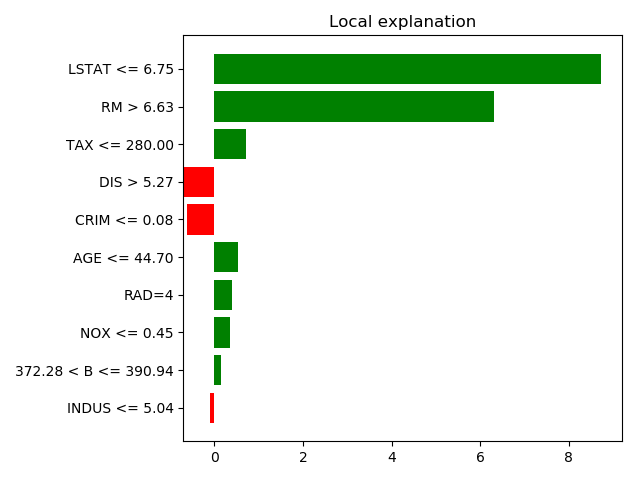
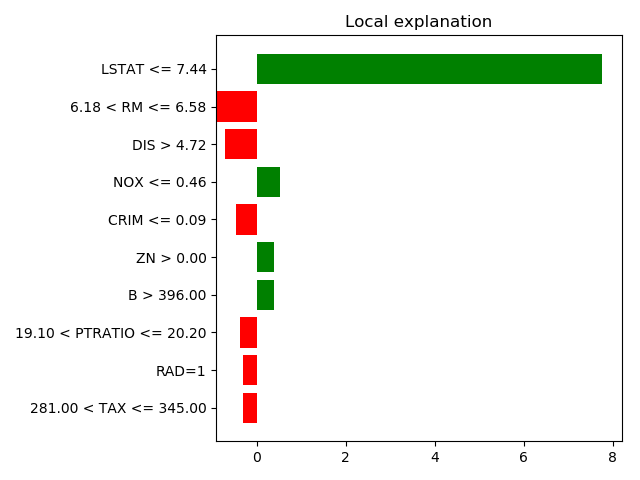
Update documentation

diff --git a/searchindex.js b/searchindex.js
@@ -1,1 +1,1 @@
-Search.setIndex({docnames:["AUTHORS","LICENSE","README","content/black_box_interpretation","content/cross_validation","content/index","content/interpreting_linear_models","content/interpreting_random_forests","content/metrics","content/partial_dep_plots","content/underfit_vs_overfit","includes/big_toc_css","includes/bigger_toc_css","index","tune_toc"],envversion:50,filenames:["AUTHORS.rst","LICENSE.rst","README.rst","content/black_box_interpretation.rst","content/cross_validation.rst","content/index.rst","content/interpreting_linear_models.rst","content/interpreting_random_forests.rst","content/metrics.rst","content/partial_dep_plots.rst","content/underfit_vs_overfit.rst","includes/big_toc_css.rst","includes/bigger_toc_css.rst","index.rst","tune_toc.rst"],objects:{},objnames:{},objtypes:{},terms:{"00000000e":[],"03800000e":[],"03900000e":[],"05700000e":[],"06000000e":[],"08300000e":[],"08700000e":[],"12500000e":[],"18900000e":[],"2018_pydata_ldn":[],"21800000e":[],"22800000e":[],"24000000e":[],"30000000e":[],"32900000e":[],"40100000e":[],"41800000e":[],"43000000e":[],"45400000e":[],"60100000e":[],"61300000e":[],"65000000e":[],"65400000e":[],"66000000e":[],"75000000e":[],"75800000e":[],"76000000e":[],"77700000e":[],"79200000e":[],"79900000e":[],"80800000e":[],"82000000e":[],"86000000e":[],"87100000e":[],"90200000e":[],"93300000e":[],"96900000e":[],"\u00e7a\u011flayan":[],"andr\u00e9":[],"boolean":[],"case":[],"class":[4,8],"default":8,"est\u00e8v":[],"export":[],"function":[8,13],"ga\u00ebl":0,"gilli\u00dfen":[],"import":[3,4,6,8,9,10,13],"j\u0119drzejewski":[],"jo\u00e3o":[],"lo\u00efc":[],"long":[],"m\u00fcller":[],"new":4,"return":10,"t\u00f6r\u00f6k":[],"true":4,"try":[4,8],"var":6,"while":[9,10],AGE:[3,6,7],But:8,DIS:3,For:[3,4,10],Its:8,Not:[6,7,8],One:4,Such:8,The:[7,9,10,13],There:4,These:8,Wes:[],With:[],__call__:[],__init__:[],_ax:[],_backend:[],_dispatch:[],_distn_infrastructur:[],_fit_and_scor:[],_multimetric_scor:[],_parallel_backend:[],_score:[],_valid:[],abl:[],abov:[],absolut:13,accept:8,accuraci:13,achiev:[2,8,13],across:[4,8,10],activ:[],actual:[4,8],adapt:10,add_subplot:[],adrian:[],adrien:[],age:6,agreement:[],akihiro:[],all:[1,2,5,8,13],along:8,alpha:10,alphabet:[],also:[3,6],amount:13,anoth:8,appli:10,applic:8,apply_async:[],approach:4,appropri:[],aquir:10,arang:[4,6,7,10],arbitrarili:4,area:13,arg:[],aris:[2,13],around:8,arrai:[],artifici:4,arunpersaud:[],as_list:3,as_pyplot_figur:3,aspect:6,assign:8,associ:[],assum:[2,13],attach:[],attribut:1,attributeerror:[],auc:8,author:1,avail:[8,10],averag:[9,13],average_precis:8,awai:4,axes3d:9,axes:[],axi:10,axs:9,azim:9,back:[],balanc:8,barh:[6,7],bartosz:[],base:[2,13],baselin:[8,13],bash:[],bashrc:[],basic:[2,13],batch:[],becaus:[4,8],been:[],behavior:8,being:8,belong:[],below:[],besson:[],best:10,between:[6,7,8,9],bia:13,bin:[],binari:[],binder:[3,4,6,7,8,9,10],binom:4,binom_gen:[],binomi:4,bit:[],black:[5,13],black_box_interpret:3,blue:10,boston:[3,9,13],bottom:[],box:[5,13],breast:[],brett:[],browser:[3,4,6,7,8,9,10],builder:[],built:[],buitinck:[],bupu:9,burn:[],buyl:[],cach:[],call:8,callback:[],can:[2,4,8,9,13],cancer:[],cannot:[6,8],captur:8,cardin:7,categor:[3,7],categorical_featur:3,caveat:13,center:4,cha:[],challeng:13,chanc:[8,13],chang:[2,8,13],chapter:[6,10],character:[],charl:8,chauv:[],check_scor:[],choos:[],chosen:[],christoph:[],cimrman:[],class_nam:3,classif:[4,13],classifi:[4,8],classificatio:[],cleric:[6,7],clf:9,click:[3,4,6,7,8,9,10],cmap:9,cmu:[6,7],code:[1,3,4,5,6,7,8,9,10,13],coef:6,coef_:6,coeffici:13,col:3,color:10,colorbar:9,column:[6,7],com:3,combel:[],come:[],common:1,commun:[],compar:[6,8,10],comparison:8,complet:[],complex:[5,13],comput:[6,8,9],con:8,conclud:8,conda:[],condit:[6,7],condition:7,configur:[],confound:13,confus:8,consid:[8,10],consist:9,constant:[],constitut:4,construct:[6,7],contain:[],content_jupyt:[5,13],content_python:[5,13],continuum:[],contributor:1,control:[7,8],conveni:[],convien:8,coordin:9,copi:[],corei:[],correct:[4,8],correctli:[],correl:13,correspond:[],cost:8,count:8,cournapeau:[],cours:[],cover:[],coverag:[],cps_85_wage:[6,7],creat:[3,4],creativ:1,creativecommon:1,crim:3,cross:[5,8,10,13],cross_val_scor:[4,8],cross_valid:4,crucial:10,cstride:9,curv:13,danger:[],daniel:[],data:[4,5,9,13],datascienceinc:3,dataset:[3,4,6,7,8,9,10],david:[],deactiv:[],decis:8,def:10,defin:8,degre:10,demo:[],dep:9,depend:[3,5,13],der:[],detect:8,dev:[],develop:8,diabet:[],did:[],didrik:[],differ:[3,4,6,8,10],difficult:7,digit:13,digit_label:8,dimens:[],directori:[],discriminant_analysi:4,discuss:8,dispatch_one_batch:[],displai:[],dist:[],distrib:4,distribut:4,document:[],doe:4,doing:4,dollar:[6,7,8],download:[3,4,5,6,7,8,9,10,13],drive:[2,13],dummi:[4,8],dummyclassifi:[4,8],dure:8,each:[6,8],easi:[4,6,8,10],easier:8,easili:[6,8],ecosystem:[],edgecolor:9,edit:[],editor:[],edu:[6,7],educ:[6,7],edwin:[],effect:[9,13],effort:[],egen:[],elev:9,elsewher:[6,7],emmanuel:[],empti:[],enabl:8,encourag:[],end:[],enough:10,ensembl:[3,7,8,9],ensur:[],entropi:[],enumer:3,env:[],environ:[],err:10,error:[4,13],espaz:[],estim:4,evalu:9,exampl:[3,4,5,6,7,8,9,10,13],exclus:8,exist:[6,7],exp:3,experi:[6,7],explain:[3,10,13],explain_inst:3,expos:8,extens:[],extern:[],extra:[],fabian:[],factor:[6,7,13],fall:4,fals:8,farwel:[],faster:[],featur:[3,8,9,13],feature_importances_:7,feature_nam:[3,8,9],feel:[],felip:[],femal:[6,7],few:[3,10],fig:9,figsiz:[4,8,10],figur:[4,8,9,10],file:[1,6,7],find:[],first:[3,4],fit:[3,6,7,9,13],fit_tim:[],fit_transform:8,fix:8,focu:[2,13],fold:[4,10],follow:[3,4,10],font:[],forest:[5,8,13],format:4,found:[],fraction:8,free:[],frequent:8,from:[3,4,6,7,8,9,10],full:[3,4,6,7,8,9,10],func:[],gael:[],galleri:[3,4,5,6,7,8,9,10,13],gather:[],gaug:[],gbrt:9,gener:[3,4,5,6,7,8,9,13],generating_func:10,georg:[],gerigk:[],gert:[],get:4,get_tight_layout_figur:[],giesek:[],git:[],github:3,give:[4,6,7,8],given:8,gnu:[],goal:8,gommer:[],good:[2,4,8,13],gotcha:[5,13],gouillart:[],gradientboostingregressor:9,great:6,grid:9,grid_resolut:9,group:[],gustavsen:[],h_pad:[],haenel:[],haessig:[],half:[2,13],hard:6,harder:8,hartmann:[],has:[8,10],have:[4,7,8],header:[6,7],heavier:3,helen:[],helmu:[],henc:8,here:[3,4,6,7,8,9,10],high:13,higher:7,highli:6,highlight:6,hispan:[6,7],home:[],hoteit:[],hour:[6,7],hous:[10,13],how:[2,8],howev:8,html:[],http:[1,3,6,7],huber:9,hyperparamet:10,ideal:[8,10],ill:8,illustr:[],imag:3,imbal:[4,8],imbalanc:8,immedi:[2,13],immediateresult:[],implement:[],implic:[],importantli:4,importerror:[],improv:[2,13],inclus:[],increas:[6,7,10],inde:8,independ:[8,13],index:[],indexerror:[],indu:3,infer:[],inform:7,ingold:[],init:9,inner:[],inspect:[3,9],instal:3,instanc:[4,8],instead:[],instruct:[],intend:[],interact:9,interest:8,interfer:[],intern:1,interpret:[2,5,13],interpreting_jupyt:[],interpreting_linear_model:6,interpreting_python:[],interpreting_random_forest:7,interv:4,invalid:[],investig:[],ipynb:[3,4,6,7,8,9,10],iri:4,is_multimetr:[],isf:4,isn:8,item:[],iter:[],its:13,job:[2,13],joblib:[],john:[],jonathan:[],jone:[],jorgeprietoarranz:[],judg:[5,13],julia:[],jupyt:[3,4,5,6,7,8,9,10,13],just:[],keep:[4,8],kikocorreoso:[],kind:[],knight:[],knowledg:[2,13],known:6,kwarg:[],kwd:[],label:[8,10],labelbinar:8,languag:[],lar:[],larg:[8,10],larger:[7,8,10],lassif:4,lasso:6,lassocv:6,last:[],latest:[],latex:[],latexmk:[],layout:[],learn:[4,6,8],learning_curv:10,learning_r:9,lectur:[6,10],left:[],legend:10,len:4,let:[4,8],level:[4,13],lfp6:[],lib:[6,7],licens:[],lies:4,like:[],lilian:[],lime:[5,13],lime_tabular:3,limetabularexplain:3,limit:10,line:3,linear:[5,8,13],linear_model:[6,10],lineardiscriminantanalysi:4,linearregress:10,link:6,linspac:[4,10],linux:[],list:[1,9],live:[6,7],load:[3,9],load_boston:[3,8,9],load_breast_canc:[],load_diabet:[],load_digit:8,load_iri:[],loc:10,local:[],log10:[6,7],log:[6,7],logspac:10,longer:8,look:4,loss:9,low:10,lower:13,lstat:3,ludwig:[],machin:[4,6],mad:[],made:10,mai:8,main:[],mainten:[],make:8,make_blob:4,make_pipelin:10,male:[6,7],manag:[6,7],mani:[4,8],manufactur:[6,7],map:9,margin:[6,9],marker:10,markup:[],marr:[6,7],marri:[6,7],match:[],materi:1,matplotlib:[3,4,6,7,8,9,10],matric:6,matthew:[],max:[],max_depth:9,max_nrow:[],maxim:8,maximilien:[],mayb:8,mclaughlin:[],md5:[],md5sum:[],mean:[10,13],meaning:8,measur:8,measuring_prediction_jupyt:[],measuring_prediction_python:[],mechan:10,member:[6,7],meshgrid:9,mesur:4,method:[],metric:[5,13],mhemantha:[],michael:[],might:[],mike:[],mind:[4,8],miniconda3:[],miniconda:[],minut:[3,4,6,7,8,9,10],miss:8,mode:3,model:[4,5,9],model_select:[3,4,8,9,10],modern:3,modifi:[],modul:[],mohammad:[],more:[3,4,5,8,9,13],most:[4,8],most_frequ:8,mpl_toolkit:9,mplot3d:9,mse:8,multi:8,multiclass:13,multilabel:13,multipl:[6,7,8],must:[],mutual:7,n_estim:9,n_job:[],n_sampl:10,naiv:8,name:[6,7,8],nameerror:[],natur:8,need:[3,5,6,8,13],neg:8,neg_mean_absolute_error:8,neg_mean_squared_error:8,negat:8,negm:[],nell:[],nelson:[],never:8,newaxi:10,nice:8,nicoguaro:[],nicola:[],noisi:4,non:13,none:[6,7],normal:[6,10],note:[6,8],notebook:[3,4,6,7,8,9,10],notion:[3,8],now:[3,8],nox:3,npermut:4,nrows_list:[],num_featur:3,number:[6,7,10],numpi:[3,4,6,7,9,10],object:[],observ:[4,8],obtain:[],occup:[6,7],off:[],often:[2,13],olav:[],olivi:[],oller:[],one:[8,13],onli:[2,8,9,13],onlin:[],oper:[2,13],oppos:8,order:[],org:1,origin:[],other:[6,7,8,9],our:8,out:[3,4,8,9,10],output:[],over:[],overfit:[5,13],own:[],ozan:[],p_valu:4,packag:[],pad:[],pairplot:6,panda:[6,7],papapanagiot:[],paper:[],parallel:[],param_nam:10,param_rang:10,paramet:[8,10],partial:[5,13],partial_dep:9,partial_dep_plot:9,partial_depend:13,pass:[],path:[6,7],patniharshit:[],pauli:[],pdf:[],pdp:[],pedregosa:[],peform:4,peopl:[],pepiot:[],per:[6,7],pereira:[],perfect:8,perform:8,permut:4,permutation_test_scor:4,permuted_scor:4,person:[6,7],pettiaux:[],philip:[],philipp:[],pierr:[],pillow:[],pint:[],pip:3,pipelin:10,plenti:6,plot:[4,5,6,8,10,13],plot_partial_depend:9,plot_surfac:9,plt:[3,4,6,7,8,9,10],pmf:4,pocoo:[],point:4,polynom:13,polynomi:13,polynomialfeatur:10,polynomialfeatures__degre:10,posit:8,pre_dispatch:[],precis:13,predict:[2,3,4,8,9,10],prefer:[],prepar:9,preprocess:[8,10],present:[6,7],pretti:9,price:[8,10,13],print:[3,4,8,10],pro:8,probabl:[],problem:[8,13],proce:[],produc:[],profession:[6,7],provid:[4,8],proxi:7,ptratio:[],purpos:[],put:8,pyplot:[3,4,6,7,8,9,10],pytest:[],python2:[],python3:[],python:[3,4,5,6,7,8,9,10,13],question:[2,13],quick:8,race:[6,7],rad:3,rai:[],rais:[],ralf:[],random:[4,5,8,10,13],random_choic:8,random_st:[8,9],randomforestclassifi:8,randomforestregressor:[3,7,8],randomli:10,rang:4,rare:8,rate:4,rather:[2,13],ratio:8,read_csv:[6,7],real:4,realli:8,recal:13,recent:[],recommend:[],rect:[],red:10,reduc:[4,8],refer:[],reg:[],regard:8,regim:6,regress:13,regressor:[3,8],regular:[10,13],rel:8,relat:8,reli:3,remain:[],remov:6,renam:[],replac:[],repo:[],report:8,repositori:[],requir:[2,13],reshap:9,rest:[],result:4,reverland:[],review:[],rich:10,ridg:6,ridgecv:6,riehl:[],right:[],river:8,robert:[],robust:4,roc:13,roc_auc:8,rougier:[],rst:1,rstride:9,run:[3,4,6,7,8,9,10],rutzmos:[],safe:[],sai:[],sale:[6,7],same:[],sampl:[4,10],santo:[],scale:8,scatter:[6,8,10],scientif:[],scikit:[2,8,10,13],scipi:[4,6,10],score:[4,8,10],score_tim:[],scorer:[],screen:[],script:[3,4,6,7,8,9,10],seaborn:6,second:[3,4,6,7,8,9,10],sector:[6,7],see:[1,3,6,8],seed:[4,10],select:6,self:[],sens:8,sep:[6,7],separ:[3,8],sequenc:[],sergio:[],servic:[6,7],set:[4,10,13],set_titl:[],set_xlabel:9,set_xlim:[],set_ylabel:9,set_ylim:[],set_zlabel:9,seven:8,sex:[6,7],shell:3,sherwood:[],shoeboxam:[],short_nam:[6,7],shortcom:13,should:[4,6,8,10],shouldn:8,show:10,shuffl:[4,8],signific:[],simon:[],simpl:[4,8],simplic:[],simplifi:8,singl:[6,8],size:[3,4,6,7,8,9,10],skater:3,skipfoot:[6,7],skiprow:[6,7],sklearn:[3,4,6,7,8,9,10],slightli:8,small:[4,8,10],softwar:[],solarjo:[],some:[5,10,13],sourc:[3,4,5,6,7,8,9,10,13],south:[6,7],specif:8,sphinx:[3,4,5,6,7,8,9,10,13],split:[4,6,7,10],spread:4,squar:13,src:[],ssmiller:[],standard:6,stat:[4,6,7],state:[],statist:[2,6,13],statsmodel:6,stefan:[],step:10,still:4,strategi:[4,8],stratifi:4,string:[],strpeter:[],stupid:8,subplots_adjust:[],subsequ:[],success:8,sucess:[5,13],sum:[],summari:13,summaris:8,support:[],surf:9,surpris:[4,8],svc:[],svm:[],sympi:[],syntax:[],syntaxerror:[],system:[2,13],szmek:[],tabular:13,take:8,talk:[],tarek:[],target:[3,4,6,7,8,9],target_featur:9,task:[],tax:3,taylor:[],teach:[],tell:10,term:[4,8],test:[2,4,13],test_scor:[],test_siz:[9,10],testenv:[],tex:[],texliv:[],text:3,than:[2,4,13],thei:[6,7,9],theofilo:[],thi:[2,3,4,6,7,8,9,10,13],thing:[4,8],though:8,thoui:[],three:[],threshold:8,thu:[],tiago:[],tight_layout:[3,6,7,8,9,10],time:[3,4,6,7,8,9,10],titl:10,toi:13,too:[6,10],tool:6,top:[],topic:[],total:[3,4,6,7,8,9,10],traceback:[],tradeoff:8,train:[9,13],train_scor:10,train_siz:10,train_test_split:[3,9,10],transform:[6,7],tune:[],tupl:[],turn:8,turner:[],tutori:[2,13],tweak:[],two:[4,8],txt:[6,7],type:3,typeerror:[],typic:[6,7],ubiquit:4,uchida:[],uncertainti:13,under:[1,13],underfit:[5,13],underfit_vs_overfit:10,understand:10,uniform:[],union:[6,7],uniqu:3,unit:8,univari:6,unless:8,unmarri:[6,7],unseen:10,unthreshold:8,upadhyai:[],upon:4,urllib:[6,7],urlretriev:[6,7],use:[3,4,8],used:[4,8],useful:8,user:3,uses:3,using:8,usr:[],usual:[],util:[4,8],utkarsh:[],vahtra:[],val:4,valentin:[],valid:[5,8,13],validation_curv:10,validation_scor:10,valu:[4,8],valueerror:[],van:[],vari:[8,9,13],variabl:[6,7],varianc:[4,6,13],variant:3,variou:8,varoquau:[],varoquaux:0,verdier:[],veri:[8,10],version:8,versu:13,via:[3,4,6,7,8,9,10],view:9,view_init:9,vinc:[],virgilefritsch:[],virtanen:[],visual:[6,7],w_pad:[],wage:13,wai:8,wakeham:[],walt:[],want:8,welcom:[],well:[6,7,8],wget:[],what:[2,4,8,13],when:[6,8,10],where:8,whether:10,which:[4,8],white:[6,7],wide:4,willing:8,wisconsin:[],wit:8,without:8,word:[],work:[6,7],would:[],written:[],wrong:4,wspace:[],x86_64:[],x_plot:10,x_test:[3,9,10],x_train:[3,9,10],xlabel:[8,10],xlim:10,xtick:[],xxx:[],y_test:[3,9,10],y_train:[3,9,10],y_type:[],yasutomo57jp:[],year:[6,7],yet:4,yield:[],ylabel:[8,10],ylim:10,ymax:10,ymin:10,yml:[],yosh:[],you:[],your:[3,4,6,7,8,9,10],ytick:[6,7],zbigniew:[],zero:8,zip:[5,8,13]},titles:["Authors","License","Understanding and diagnosing your machine-learning models","1. Black-box interpretation of models: LIME","2. Cross-validation: some gotchas","Notebooks","2. Interpreting linear models","3. Interpreting random forests","1. Metrics to judge the sucess of a model","4. Partial dependency plots","3. Underfit vs overfit: do I need more data, or more complex models?","&lt;no title&gt;","&lt;no title&gt;","Understanding and diagnosing your machine-learning models","&lt;no title&gt;"],titleterms:{"function":9,"import":7,The:[4,6,8],absolut:8,accuraci:[4,8],addit:[],all:9,amount:10,area:8,author:0,averag:8,baselin:4,bia:10,black:3,boston:8,box:3,breast:[],build:[],cancer:[],caveat:7,challeng:6,chanc:4,chapter:[],character:[],classif:8,classifi:13,classificatio:[],coeffici:6,complex:10,condit:[],confound:4,content:8,contribut:[],correl:6,cross:4,curv:[8,10],data:[3,6,7,8,10],debian:[],depend:9,diagnos:[2,13],digit:8,distribut:[],editor:[],effect:[4,6],error:[8,10],exampl:[],explain:8,factor:3,featur:[6,7],fit:10,forest:7,gener:10,gotcha:4,guid:[],high:10,hous:[3,8],how:13,independ:4,instal:[],instruct:[],interpret:[3,6,7],its:8,judg:8,just:[],learn:[2,10,13],lectur:[],level:9,licens:1,lime:3,linear:6,lower:9,machin:[2,13],mad:[],margin:[],mean:[7,8],measur:[4,13],metric:8,model:[2,3,6,8,10,13],more:10,mse:[],multiclass:8,multilabel:8,need:10,non:4,note:[],notebook:[5,13],one:9,overfit:10,packag:[],partial:9,partial_depend:9,permut:[],pip:[],plot:9,polynom:10,polynomi:10,precis:8,predict:13,price:3,problem:10,python:[],random:7,recal:8,regress:[3,8,10],regular:6,relat:[],requir:[],reus:[],roc:8,scipi:[],set:8,shortcom:8,some:4,squar:8,sucess:8,summari:[8,10],syntaxerror:[],tabular:3,test:10,toi:10,train:10,tune:[],ubuntu:[],uncertainti:4,under:8,underfit:10,understand:[2,13],valid:[4,10],vari:10,varianc:[8,10],versu:[8,10],wage:[6,7],well:13,why:13,wisconsin:[],your:[2,13]}})
+Search.setIndex({docnames:["AUTHORS","LICENSE","README","content/black_box_interpretation","content/cross_validation","content/index","content/interpreting_linear_models","content/interpreting_random_forests","content/metrics","content/partial_dep_plots","content/underfit_vs_overfit","includes/big_toc_css","includes/bigger_toc_css","index","tune_toc"],envversion:50,filenames:["AUTHORS.rst","LICENSE.rst","README.rst","content/black_box_interpretation.rst","content/cross_validation.rst","content/index.rst","content/interpreting_linear_models.rst","content/interpreting_random_forests.rst","content/metrics.rst","content/partial_dep_plots.rst","content/underfit_vs_overfit.rst","includes/big_toc_css.rst","includes/bigger_toc_css.rst","index.rst","tune_toc.rst"],objects:{},objnames:{},objtypes:{},terms:{"00000000e":[],"03800000e":[],"03900000e":[],"05700000e":[],"06000000e":[],"08300000e":[],"08700000e":[],"12500000e":[],"18900000e":[],"2018_pydata_ldn":[],"21800000e":[],"22800000e":[],"24000000e":[],"30000000e":[],"32900000e":[],"40100000e":[],"41800000e":[],"43000000e":[],"45400000e":[],"60100000e":[],"61300000e":[],"65000000e":[],"65400000e":[],"66000000e":[],"75000000e":[],"75800000e":[],"76000000e":[],"77700000e":[],"79200000e":[],"79900000e":[],"80800000e":[],"82000000e":[],"86000000e":[],"87100000e":[],"90200000e":[],"93300000e":[],"96900000e":[],"\u00e7a\u011flayan":[],"andr\u00e9":[],"boolean":[],"case":[],"class":[4,8],"default":8,"est\u00e8v":[],"export":[],"function":[8,13],"ga\u00ebl":0,"gilli\u00dfen":[],"import":[3,4,6,8,9,10,13],"j\u0119drzejewski":[],"jo\u00e3o":[],"lo\u00efc":[],"long":[],"m\u00fcller":[],"new":4,"return":10,"t\u00f6r\u00f6k":[],"true":4,"try":[4,8],"var":6,"while":[9,10],AGE:[6,7],But:8,DIS:3,For:[3,4,10],Its:8,Not:[6,7,8],One:4,Such:8,The:[7,9,10,13],There:4,These:8,Wes:[],With:[],__call__:[],__init__:[],_ax:[],_backend:[],_dispatch:[],_distn_infrastructur:[],_fit_and_scor:[],_multimetric_scor:[],_parallel_backend:[],_score:[],_valid:[],abl:[],abov:[],absolut:13,accept:8,accuraci:13,achiev:[2,8,13],across:[4,8,10],activ:[],actual:[4,8],adapt:10,add_subplot:[],adrian:[],adrien:[],age:6,agreement:[],akihiro:[],all:[1,2,5,8,13],along:8,alpha:10,alphabet:[],also:[3,6],amount:13,anoth:8,appli:10,applic:8,apply_async:[],approach:4,appropri:[],aquir:10,arang:[4,6,7,10],arbitrari:6,arbitrarili:4,area:13,arg:[],aris:[2,13],around:8,arrai:[],artifici:4,arunpersaud:[],as_list:3,as_pyplot_figur:3,aspect:6,assign:8,associ:[],assum:[2,13],attach:[],attribut:1,attributeerror:[],auc:8,author:1,avail:[8,10],averag:[9,13],average_precis:8,awai:4,axes3d:9,axes:[],axi:10,axs:9,azim:9,back:[],balanc:8,barh:[6,7],bartosz:[],base:[2,13],baselin:[8,13],bash:[],bashrc:[],basic:[2,13],batch:[],becaus:[4,8],been:[],behavior:8,being:8,belong:[],below:[],besson:[],best:10,between:[6,7,8,9],bia:13,bin:[],binari:[],binder:[3,4,6,7,8,9,10],binom:4,binom_gen:[],binomi:4,bit:[],black:[5,13],black_box_interpret:3,blue:10,boston:[3,9,13],bottom:[],box:[5,13],breast:[],brett:[],browser:[3,4,6,7,8,9,10],builder:[],built:[],buitinck:[],bupu:9,burn:[],buyl:[],cach:[],call:8,callback:[],can:[2,4,6,8,9,13],cancer:[],cannot:[6,8],captur:8,cardin:7,categor:[3,7],categorical_featur:3,caveat:13,center:4,cha:[],challeng:13,chanc:[8,13],chang:[2,8,13],chapter:[6,10],character:[],charl:8,chauv:[],check_scor:[],choos:[],chosen:[],christoph:[],cimrman:[],class_nam:3,classif:[4,13],classifi:[4,8],classificatio:[],cleric:[6,7],clf:9,click:[3,4,6,7,8,9,10],cmap:9,cmu:[6,7],code:[1,3,4,5,6,7,8,9,10,13],coef:6,coef_:6,coeffici:13,col:3,color:10,colorbar:9,column:[6,7],com:3,combel:[],come:[],common:1,commun:[],compar:[6,8,10],comparison:8,complet:[],complex:[5,13],comput:[6,8,9],con:8,conclud:8,conda:[],condit:[6,7],condition:7,configur:[],confound:13,confus:8,consid:[8,10],consist:9,constant:[],constitut:4,construct:[6,7],contain:[],content_jupyt:[5,13],content_python:[5,13],continuum:[],contributor:1,control:[7,8],conveni:[],convien:8,coordin:9,copi:[],corei:[],correct:[4,8],correctli:[],correl:13,correspond:[],cost:8,count:8,cournapeau:[],cours:[],cover:[],coverag:[],cps_85_wage:[6,7],creat:[3,4],creativ:1,creativecommon:1,crim:3,cross:[5,8,10,13],cross_val_scor:[4,8],cross_valid:4,crucial:10,cstride:9,curv:13,danger:[],daniel:[],data:[4,5,9,13],datascienceinc:3,dataset:[3,4,6,7,8,9,10],david:[],deactiv:[],decis:8,def:10,defin:8,degre:10,demo:[],dep:9,depend:[3,5,6,13],der:[],detect:8,dev:[],develop:8,diabet:[],did:[],didrik:[],differ:[3,4,6,8,10],difficult:7,digit:13,digit_label:8,dimens:[],directori:[],discriminant_analysi:4,discuss:8,dispatch_one_batch:[],displai:[],dist:[],distrib:4,distribut:4,document:[],doe:4,doing:4,dollar:[6,7,8],download:[3,4,5,6,7,8,9,10,13],drive:[2,13],dummi:[4,8],dummyclassifi:[4,8],dure:8,each:[6,8],easi:[4,6,8,10],easier:8,easili:[6,8],ecosystem:[],edgecolor:9,edit:[],editor:[],edu:[6,7],educ:[6,7],edwin:[],effect:[9,13],effort:[],egen:[],elev:9,elsewher:[6,7],emmanuel:[],empti:[],enabl:8,encourag:[],end:[],enough:10,ensembl:[3,7,8,9],ensur:[],entropi:[],enumer:3,env:[],environ:[],err:10,error:[4,13],espaz:[],estim:4,evalu:9,exampl:[3,4,5,6,7,8,9,10,13],exclus:8,exist:[6,7],exp:3,experi:[6,7],explain:[3,10,13],explain_inst:3,expos:8,extens:[],extern:[],extra:[],fabian:[],factor:[6,7,13],fall:4,fals:8,farwel:[],faster:[],featur:[3,8,9,13],feature_importances_:7,feature_nam:[3,8,9],feel:[],felip:[],femal:[6,7],few:[3,10],fig:9,figsiz:[4,8,10],figur:[4,8,9,10],file:[1,6,7],find:[],first:[3,4],fit:[3,6,7,9,13],fit_tim:[],fit_transform:8,fix:8,focu:[2,13],fold:[4,10],follow:[3,4,10],font:[],forest:[5,8,13],format:4,found:[],fraction:8,free:[],frequent:8,from:[3,4,6,7,8,9,10],full:[3,4,6,7,8,9,10],func:[],gael:[],galleri:[3,4,5,6,7,8,9,10,13],gather:[],gaug:[],gbrt:9,gener:[3,4,5,6,7,8,9,13],generating_func:10,georg:[],gerigk:[],gert:[],get:4,get_tight_layout_figur:[],giesek:[],git:[],github:3,give:[4,6,7,8],given:8,gnu:[],goal:8,gommer:[],good:[2,4,8,13],gotcha:[5,13],gouillart:[],gradientboostingregressor:9,great:6,grid:9,grid_resolut:9,group:[],gustavsen:[],h_pad:[],haenel:[],haessig:[],half:[2,13],hard:6,harder:8,hartmann:[],has:[8,10],have:[4,7,8],header:[6,7],heavier:3,helen:[],helmu:[],henc:8,here:[3,4,6,7,8,9,10],high:13,higher:7,highli:6,highlight:6,hispan:[6,7],home:[],hoteit:[],hour:[6,7],hous:[10,13],how:[2,8],howev:8,html:[],http:[1,3,6,7],huber:9,hyperparamet:10,ideal:[8,10],ill:8,illustr:[],imag:3,imbal:[4,8],imbalanc:8,immedi:[2,13],immediateresult:[],implement:[],implic:[],importantli:4,importerror:[],improv:[2,13],inclus:[],increas:[6,7,10],inde:8,independ:[8,13],index:[],indexerror:[],indu:[],infer:[],inform:7,ingold:[],init:9,inner:[],inspect:[3,9],instal:3,instanc:[4,8],instead:[],instruct:[],intend:[],interact:9,interest:8,interfer:[],intern:1,interpret:[2,5,13],interpreting_jupyt:[],interpreting_linear_model:6,interpreting_python:[],interpreting_random_forest:7,interv:4,invalid:[],investig:[],ipynb:[3,4,6,7,8,9,10],iri:4,is_multimetr:[],isf:4,isn:8,item:[],iter:[],its:13,job:[2,13],joblib:[],john:[],jonathan:[],jone:[],jorgeprietoarranz:[],judg:[5,13],julia:[],jupyt:[3,4,5,6,7,8,9,10,13],just:[],keep:[4,8],kikocorreoso:[],kind:[],knight:[],knowledg:[2,13],known:6,kwarg:[],kwd:[],label:[8,10],labelbinar:8,languag:[],lar:[],larg:[8,10],larger:[7,8,10],lassif:4,lasso:6,lassocv:6,last:[],latest:[],latex:[],latexmk:[],layout:[],learn:[4,6,8],learning_curv:10,learning_r:9,lectur:[6,10],left:[],legend:10,len:4,let:[4,8],level:[4,13],lfp6:[],lib:[6,7],licens:[],lies:4,like:[],lilian:[],lime:[5,13],lime_tabular:3,limetabularexplain:3,limit:10,line:3,linear:[5,8,13],linear_model:[6,10],lineardiscriminantanalysi:4,linearregress:10,link:6,linspac:[4,10],linux:[],list:[1,9],live:[6,7],load:[3,9],load_boston:[3,8,9],load_breast_canc:[],load_diabet:[],load_digit:8,load_iri:[],loc:10,local:[],log10:[6,7],log:[6,7],logspac:10,longer:8,look:4,loss:9,low:10,lower:13,lstat:3,ludwig:[],machin:[4,6],mad:[],made:10,mai:8,main:[],mainten:[],make:8,make_blob:4,make_pipelin:10,male:[6,7],manag:[6,7],mani:[4,8],manufactur:[6,7],map:9,margin:[6,9],marker:10,markup:[],marr:[6,7],marri:[6,7],match:[],materi:1,matplotlib:[3,4,6,7,8,9,10],matric:6,matthew:[],max:[],max_depth:9,max_nrow:[],maxim:8,maximilien:[],mayb:8,mclaughlin:[],md5:[],md5sum:[],mean:[10,13],meaning:8,measur:8,measuring_prediction_jupyt:[],measuring_prediction_python:[],mechan:10,member:[6,7],meshgrid:9,mesur:4,method:[],metric:[5,13],mhemantha:[],michael:[],might:[],mike:[],mind:[4,8],miniconda3:[],miniconda:[],minut:[3,4,6,7,8,9,10],miss:8,mode:3,model:[4,5,9],model_select:[3,4,8,9,10],modern:3,modifi:[],modul:[],mohammad:[],more:[3,4,5,8,9,13],most:[4,8],most_frequ:8,mpl_toolkit:9,mplot3d:9,mse:8,multi:8,multiclass:13,multilabel:13,multipl:[6,7,8],must:[],mutual:7,n_estim:9,n_job:[],n_sampl:10,naiv:8,name:[6,7,8],nameerror:[],natur:8,need:[3,5,6,8,13],neg:8,neg_mean_absolute_error:8,neg_mean_squared_error:8,negat:8,negm:[],nell:[],nelson:[],never:8,newaxi:10,nice:8,nicoguaro:[],nicola:[],noisi:4,non:13,none:[6,7],normal:[6,10],note:[6,8],notebook:[3,4,6,7,8,9,10],notion:[3,8],now:[3,8],nox:3,npermut:4,nrows_list:[],num_featur:3,number:[6,7,10],numpi:[3,4,6,7,9,10],object:[],observ:[4,8],obtain:[],occup:[6,7],off:[],often:[2,13],olav:[],olivi:[],oller:[],one:[6,8,13],onli:[2,8,9,13],onlin:[],oper:[2,13],oppos:8,order:[],org:1,origin:[],other:[6,7,8,9],our:8,out:[3,4,8,9,10],output:[],over:[],overfit:[5,13],overshadow:6,own:[],ozan:[],p_valu:4,packag:[],pad:[],pairplot:6,panda:[6,7],papapanagiot:[],paper:[],parallel:[],param_nam:10,param_rang:10,paramet:[8,10],partial:[5,13],partial_dep:9,partial_dep_plot:9,partial_depend:13,pass:[],path:[6,7],patniharshit:[],pauli:[],pdf:[],pdp:[],pedregosa:[],peform:4,peopl:[],pepiot:[],per:[6,7],pereira:[],perfect:8,perform:8,permut:4,permutation_test_scor:4,permuted_scor:4,person:[6,7],pettiaux:[],philip:[],philipp:[],pierr:[],pillow:[],pint:[],pip:3,pipelin:10,plenti:6,plot:[4,5,6,8,10,13],plot_partial_depend:9,plot_surfac:9,plt:[3,4,6,7,8,9,10],pmf:4,pocoo:[],point:4,polynom:13,polynomi:13,polynomialfeatur:10,polynomialfeatures__degre:10,posit:8,pre_dispatch:[],precis:13,predict:[2,3,4,8,9,10],prefer:[],prepar:9,preprocess:[8,10],present:[6,7],pretti:9,price:[8,10,13],print:[3,4,8,10],pro:8,probabl:6,problem:[8,13],proce:[],produc:[],profession:[6,7],provid:[4,8],proxi:7,ptratio:3,purpos:[],put:[6,8],pyplot:[3,4,6,7,8,9,10],pytest:[],python2:[],python3:[],python:[3,4,5,6,7,8,9,10,13],question:[2,13],quick:8,race:[6,7],rad:3,rai:[],rais:[],ralf:[],random:[4,5,8,10,13],random_choic:8,random_st:[8,9],randomforestclassifi:8,randomforestregressor:[3,7,8],randomli:10,rang:4,rare:8,rate:4,rather:[2,13],ratio:8,read_csv:[6,7],real:4,realli:8,recal:13,recent:[],recommend:[],rect:[],red:10,reduc:[4,8],refer:[],reg:[],regard:8,regim:6,regress:13,regressor:[3,8],regular:[10,13],rel:8,relat:8,reli:3,remain:[],remov:6,renam:[],replac:[],repo:[],report:8,repositori:[],requir:[2,13],reshap:9,rest:[],result:4,reverland:[],review:[],rich:10,ridg:6,ridgecv:6,riehl:[],right:[],river:8,robert:[],robust:4,roc:13,roc_auc:8,rougier:[],rst:1,rstride:9,run:[3,4,6,7,8,9,10],rutzmos:[],safe:[],sai:[],sale:[6,7],same:[],sampl:[4,10],santo:[],scale:8,scatter:[6,8,10],scientif:[],scikit:[2,8,10,13],scipi:[4,6,10],score:[4,8,10],score_tim:[],scorer:[],screen:[],script:[3,4,6,7,8,9,10],seaborn:6,second:[3,4,6,7,8,9,10],sector:[6,7],see:[1,3,6,8],seed:[4,10],select:6,self:[],sens:8,sep:[6,7],separ:[3,8],sequenc:[],sergio:[],servic:[6,7],set:[4,10,13],set_titl:[],set_xlabel:9,set_xlim:[],set_ylabel:9,set_ylim:[],set_zlabel:9,seven:8,sex:[6,7],shell:3,sherwood:[],shoeboxam:[],short_nam:[6,7],shortcom:13,should:[4,6,8,10],shouldn:8,show:10,shuffl:[4,8],signific:[],simon:[],simpl:[4,8],simplic:[],simplifi:8,singl:[6,8],size:[3,4,6,7,8,9,10],skater:3,skipfoot:[6,7],skiprow:[6,7],sklearn:[3,4,6,7,8,9,10],slightli:8,small:[4,8,10],snr:6,softwar:[],solarjo:[],some:[5,10,13],sourc:[3,4,5,6,7,8,9,10,13],south:[6,7],spars:6,specif:8,sphinx:[3,4,5,6,7,8,9,10,13],split:[4,6,7,10],spread:4,squar:13,src:[],ssmiller:[],standard:6,stat:[4,6,7],state:[],statist:[2,6,13],statsmodel:6,stefan:[],step:10,still:4,strategi:[4,8],stratifi:4,string:[],strpeter:[],stupid:8,subplots_adjust:[],subsequ:[],success:8,sucess:[5,13],sum:[],summari:13,summaris:8,support:[],surf:9,surpris:[4,8],svc:[],svm:[],sympi:[],syntax:[],syntaxerror:[],system:[2,13],szmek:[],tabular:13,take:8,talk:[],tarek:[],target:[3,4,6,7,8,9],target_featur:9,task:[],tax:3,taylor:[],teach:[],tell:10,term:[4,8],test:[2,4,13],test_scor:[],test_siz:[9,10],testenv:[],tex:[],texliv:[],text:3,than:[2,4,13],thei:[6,7,9],theofilo:[],thi:[2,3,4,6,7,8,9,10,13],thing:[4,8],though:8,thoui:[],three:[],threshold:8,thu:[],tiago:[],tight_layout:[3,6,7,8,9,10],time:[3,4,6,7,8,9,10],titl:10,toi:13,too:[6,10],tool:6,top:[],topic:[],total:[3,4,6,7,8,9,10],traceback:[],tradeoff:8,train:[9,13],train_scor:10,train_siz:10,train_test_split:[3,9,10],transform:[6,7],tune:[],tupl:[],turn:8,turner:[],tutori:[2,13],tweak:[],two:[4,6,8],txt:[6,7],type:3,typeerror:[],typic:[6,7],ubiquit:4,uchida:[],uncertainti:13,under:[1,13],underfit:[5,13],underfit_vs_overfit:10,understand:10,uniform:[],union:[6,7],uniqu:3,unit:8,univari:6,unless:8,unmarri:[6,7],unseen:10,unthreshold:8,upadhyai:[],upon:4,urllib:[6,7],urlretriev:[6,7],use:[3,4,8],used:[4,8],useful:8,user:3,uses:3,using:8,usr:[],usual:[],util:[4,8],utkarsh:[],vahtra:[],val:4,valentin:[],valid:[5,8,13],validation_curv:10,validation_scor:10,valu:[4,8],valueerror:[],van:[],vari:[8,9,13],variabl:[6,7],varianc:[4,6,13],variant:3,variou:8,varoquau:[],varoquaux:0,verdier:[],veri:[6,8,10],version:8,versu:13,via:[3,4,6,7,8,9,10],view:9,view_init:9,vinc:[],virgilefritsch:[],virtanen:[],visual:[6,7],w_pad:[],wage:13,wai:8,wakeham:[],walt:[],want:8,welcom:[],well:[6,7,8],wget:[],what:[2,4,8,13],when:[6,8,10],where:8,whether:10,which:[4,8],white:[6,7],wide:4,willing:8,wisconsin:[],wit:8,without:8,word:[],work:[6,7],would:[],written:[],wrong:4,wspace:[],x86_64:[],x_plot:10,x_test:[3,9,10],x_train:[3,9,10],xlabel:[8,10],xlim:10,xtick:[],xxx:[],y_test:[3,9,10],y_train:[3,9,10],y_type:[],yasutomo57jp:[],year:[6,7],yet:4,yield:[],ylabel:[8,10],ylim:10,ymax:10,ymin:10,yml:[],yosh:[],you:[],your:[3,4,6,7,8,9,10],ytick:[6,7],zbigniew:[],zero:[6,8],zip:[5,8,13]},titles:["Authors","License","Understanding and diagnosing your machine-learning models","1. Black-box interpretation of models: LIME","2. Cross-validation: some gotchas","Notebooks","2. Interpreting linear models","3. Interpreting random forests","1. Metrics to judge the sucess of a model","4. Partial dependency plots","3. Underfit vs overfit: do I need more data, or more complex models?","&lt;no title&gt;","&lt;no title&gt;","Understanding and diagnosing your machine-learning models","&lt;no title&gt;"],titleterms:{"function":9,"import":7,The:[4,6,8],absolut:8,accuraci:[4,8],addit:[],all:9,amount:10,area:8,author:0,averag:8,baselin:4,bia:10,black:3,boston:8,box:3,breast:[],build:[],cancer:[],caveat:7,challeng:6,chanc:4,chapter:[],character:[],classif:8,classifi:13,classificatio:[],coeffici:6,complex:10,condit:[],confound:4,content:8,contribut:[],correl:6,cross:4,curv:[8,10],data:[3,6,7,8,10],debian:[],depend:9,diagnos:[2,13],digit:8,distribut:[],editor:[],effect:[4,6],error:[8,10],exampl:[],explain:8,factor:3,featur:[6,7],fit:10,forest:7,gener:10,gotcha:4,guid:[],high:10,hous:[3,8],how:13,independ:4,instal:[],instruct:[],interpret:[3,6,7],its:8,judg:8,just:[],learn:[2,10,13],lectur:[],level:9,licens:1,lime:3,linear:6,lower:9,machin:[2,13],mad:[],margin:[],mean:[7,8],measur:[4,13],metric:8,model:[2,3,6,8,10,13],more:10,mse:[],multiclass:8,multilabel:8,need:10,non:4,note:[],notebook:[5,13],one:9,overfit:10,packag:[],partial:9,partial_depend:9,permut:[],pip:[],plot:9,polynom:10,polynomi:10,precis:8,predict:13,price:3,problem:10,python:[],random:7,recal:8,regress:[3,8,10],regular:6,relat:[],requir:[],reus:[],roc:8,scipi:[],set:8,shortcom:8,some:4,squar:8,sucess:8,summari:[8,10],syntaxerror:[],tabular:3,test:10,toi:10,train:10,tune:[],ubuntu:[],uncertainti:4,under:8,underfit:10,understand:[2,13],valid:[4,10],vari:10,varianc:[8,10],versu:[8,10],wage:[6,7],well:13,why:13,wisconsin:[],your:[2,13]}})

diff --git a/content/black_box_interpretation.html b/content/black_box_interpretation.html
@@ -220,7 +220,7 @@ tabular, image, text.</p>
 <div class="newline"></div></pre></div>
 </div>
 <p class="sphx-glr-script-out">Out:</p>
-<div class="sphx-glr-script-out highlight-default"><div class="highlight"><pre><span></span><span class="p">[(</span><span class="s1">&#39;LSTAT &lt;= 6.75&#39;</span><span class="p">,</span> <span class="mf">8.7194292414954866</span><span class="p">),</span> <span class="p">(</span><span class="s1">&#39;RM &gt; 6.63&#39;</span><span class="p">,</span> <span class="mf">6.322250413509515</span><span class="p">),</span> <span class="p">(</span><span class="s1">&#39;TAX &lt;= 280.00&#39;</span><span class="p">,</span> <span class="mf">0.7077605224964284</span><span class="p">),</span> <span class="p">(</span><span class="s1">&#39;DIS &gt; 5.27&#39;</span><span class="p">,</span> <span class="o">-</span><span class="mf">0.69456697608892226</span><span class="p">),</span> <span class="p">(</span><span class="s1">&#39;CRIM &lt;= 0.08&#39;</span><span class="p">,</span> <span class="o">-</span><span class="mf">0.62043533637629689</span><span class="p">),</span> <span class="p">(</span><span class="s1">&#39;AGE &lt;= 44.70&#39;</span><span class="p">,</span> <span class="mf">0.53893682457558401</span><span class="p">),</span> <span class="p">(</span><span class="s1">&#39;RAD=4&#39;</span><span class="p">,</span> <span class="mf">0.41052961475175387</span><span class="p">),</span> <span class="p">(</span><span class="s1">&#39;NOX &lt;= 0.45&#39;</span><span class="p">,</span> <span class="mf">0.34974938058307581</span><span class="p">),</span> <span class="p">(</span><span class="s1">&#39;372.28 &lt; B &lt;= 390.94&#39;</span><span class="p">,</span> <span class="mf">0.14173575014530143</span><span class="p">),</span> <span class="p">(</span><span class="s1">&#39;INDUS &lt;= 5.04&#39;</span><span class="p">,</span> <span class="o">-</span><span class="mf">0.10459547169760436</span><span class="p">)]</span>
+<div class="sphx-glr-script-out highlight-default"><div class="highlight"><pre><span></span><span class="p">[(</span><span class="s1">&#39;LSTAT &lt;= 7.44&#39;</span><span class="p">,</span> <span class="mf">7.7596752211035458</span><span class="p">),</span> <span class="p">(</span><span class="s1">&#39;6.18 &lt; RM &lt;= 6.58&#39;</span><span class="p">,</span> <span class="o">-</span><span class="mf">0.9093968629223903</span><span class="p">),</span> <span class="p">(</span><span class="s1">&#39;DIS &gt; 4.72&#39;</span><span class="p">,</span> <span class="o">-</span><span class="mf">0.70512543216415358</span><span class="p">),</span> <span class="p">(</span><span class="s1">&#39;NOX &lt;= 0.46&#39;</span><span class="p">,</span> <span class="mf">0.51560566507743</span><span class="p">),</span> <span class="p">(</span><span class="s1">&#39;CRIM &lt;= 0.09&#39;</span><span class="p">,</span> <span class="o">-</span><span class="mf">0.45722319351284785</span><span class="p">),</span> <span class="p">(</span><span class="s1">&#39;ZN &gt; 0.00&#39;</span><span class="p">,</span> <span class="mf">0.39788175678697063</span><span class="p">),</span> <span class="p">(</span><span class="s1">&#39;B &gt; 396.00&#39;</span><span class="p">,</span> <span class="mf">0.3814292667526803</span><span class="p">),</span> <span class="p">(</span><span class="s1">&#39;19.10 &lt; PTRATIO &lt;= 20.20&#39;</span><span class="p">,</span> <span class="o">-</span><span class="mf">0.38084477008612727</span><span class="p">),</span> <span class="p">(</span><span class="s1">&#39;RAD=1&#39;</span><span class="p">,</span> <span class="o">-</span><span class="mf">0.30284784526829844</span><span class="p">),</span> <span class="p">(</span><span class="s1">&#39;281.00 &lt; TAX &lt;= 345.00&#39;</span><span class="p">,</span> <span class="o">-</span><span class="mf">0.30202335699846755</span><span class="p">)]</span>
 <div class="newline"></div></pre></div>
 </div>
 <p>Explain a few more predictions</p>
@@ -239,7 +239,7 @@ tabular, image, text.</p>
 <li><img alt="../_images/sphx_glr_black_box_interpretation_004.png" class="sphx-glr-multi-img first" src="../_images/sphx_glr_black_box_interpretation_004.png" />
 </li>
 </ul>
-<p><strong>Total running time of the script:</strong> ( 0 minutes  3.138 seconds)</p>
+<p><strong>Total running time of the script:</strong> ( 0 minutes  1.539 seconds)</p>
 <div class="sphx-glr-footer class sphx-glr-footer-example docutils container" id="sphx-glr-download-content-black-box-interpretation-py">
 <div class="binder-badge docutils container">
 <a class="reference external image-reference" href="https://mybinder.org/v2/gh/gaelvaroquaux/interpreting_ml_tuto/master?filepath=_downloads/black_box_interpretation.ipynb"><img alt="https://static.mybinder.org/badge.svg" src="https://static.mybinder.org/badge.svg" width="150px" /></a>

diff --git a/content/interpreting_linear_models.html b/content/interpreting_linear_models.html
@@ -264,7 +264,12 @@ statistics chapter in scipy-lectures)</p>
 <div class="newline"></div></pre></div>
 </div>
 <img alt="../_images/sphx_glr_interpreting_linear_models_003.png" class="sphx-glr-single-img" src="../_images/sphx_glr_interpreting_linear_models_003.png" />
-<p><strong>Total running time of the script:</strong> ( 0 minutes  2.295 seconds)</p>
+<p>l1 regularization (sparse models) puts variables to zero.</p>
+<p>When two variables are very correlated, it will put arbitrary one or
+the other to zero depending on their SNR. Here we can see that age
+probably overshadowed experience.</p>
+<hr class="docutils" />
+<p><strong>Total running time of the script:</strong> ( 0 minutes  1.674 seconds)</p>
 <div class="sphx-glr-footer class sphx-glr-footer-example docutils container" id="sphx-glr-download-content-interpreting-linear-models-py">
 <div class="binder-badge docutils container">
 <a class="reference external image-reference" href="https://mybinder.org/v2/gh/gaelvaroquaux/interpreting_ml_tuto/master?filepath=_downloads/interpreting_linear_models.ipynb"><img alt="https://static.mybinder.org/badge.svg" src="https://static.mybinder.org/badge.svg" width="150px" /></a>

diff --git a/_downloads/interpreting_linear_models.py b/_downloads/interpreting_linear_models.py
@@ -108,4 +108,12 @@ plt.barh(np.arange(coefs.size), coefs)
 plt.yticks(np.arange(coefs.size), features)
 plt.tight_layout()
 
+########################################################
+# l1 regularization (sparse models) puts variables to zero.
+#
+# When two variables are very correlated, it will put arbitrary one or
+# the other to zero depending on their SNR. Here we can see that age
+# probably overshadowed experience.
+#
+# _____________________
 

diff --git a/_downloads/black_box_interpretation.py b/_downloads/black_box_interpretation.py
@@ -64,3 +64,4 @@ for i in [7, 50, 66]:
     plt.tight_layout()
 
 
+
